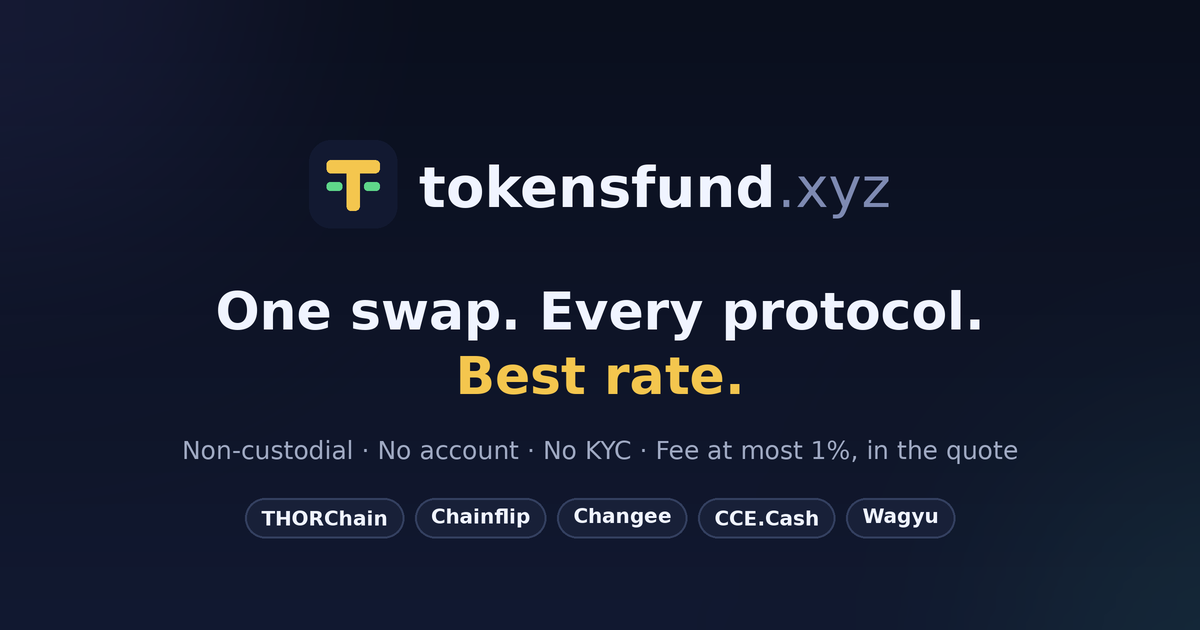
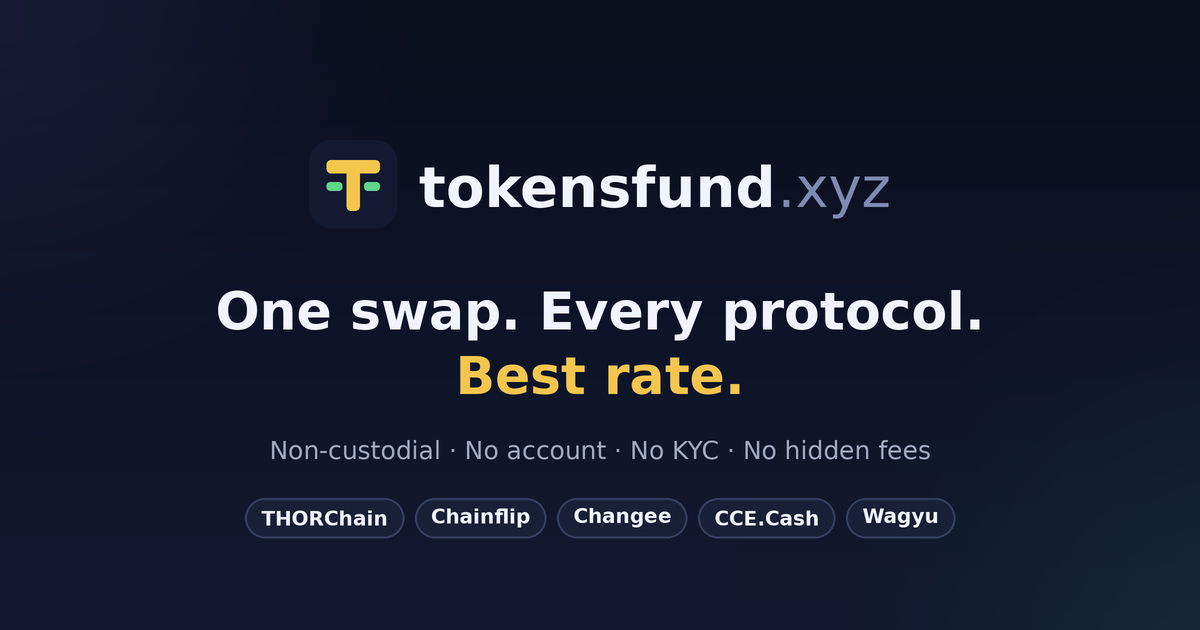
Add files via upload

Changed region(s): [[0.1542, 0.6937, 0.8633, 0.754]]

diff --git a/lib/pairs.ts b/lib/pairs.ts
@@ -8,6 +8,8 @@
 // sitemap all derive from it. Keep `faqs` genuinely useful — they carry the
 // FAQPage structured data.
 
+import { FEE_PHRASE, FEE_ANSWER } from "./fees";
+
 export interface PairFaq {
   q: string;
   a: string;
@@ -37,9 +39,9 @@ export const PAIRS: PairPage[] = [
     toLabel: "Monero",
     title: "Swap BTC to XMR — No Account, No KYC",
     description:
-      "Compare live BTC to XMR rates across THORChain, Changee, CCE.Cash and Wagyu in one place. Non-custodial, no account, no KYC for standard swaps, flat 1% already in the quote.",
+      `Compare live BTC to XMR rates across CCE.Cash, Changee and Wagyu in one place. Non-custodial, no account, no KYC for standard swaps, ${FEE_PHRASE}.`,
     intro:
-      "Bitcoin in, Monero out, wallet to wallet. We quote every route that supports the pair and send your swap to the best one — no account, no KYC for standard swaps, and our 1% fee is already inside the number you see.",
+      "Bitcoin in, Monero out, wallet to wallet. We quote every route that supports the pair and send your swap to the best one — no account, no KYC for standard swaps, and the number you see is what you receive.",
     notes: [
       "BTC→XMR rates vary more between services than almost any other pair, which is exactly why comparing routes matters here.",
       "Your XMR address is ~95 characters starting with 4 (or 8 for a subaddress) — check the first and last five characters before sending.",
@@ -56,7 +58,7 @@ export const PAIRS: PairPage[] = [
       },
       {
         q: "What fee do you charge on BTC to XMR?",
-        a: "A flat 1%, already included in every quote shown. The figure on screen is what you receive, aside from network fees charged by the blockchains themselves.",
+        a: FEE_ANSWER,
       },
       {
         q: "How long does a BTC to XMR swap take?",
@@ -76,9 +78,9 @@ export const PAIRS: PairPage[] = [
     toLabel: "Bitcoin",
     title: "Swap XMR to BTC — No Account, No KYC",
     description:
-      "Compare live XMR to BTC rates across every route that supports the pair. Non-custodial, no account, no KYC for standard swaps, flat 1% already in the quote.",
+      `Compare live XMR to BTC rates across every route that supports the pair. Non-custodial, no account, no KYC for standard swaps, ${FEE_PHRASE}.`,
     intro:
-      "Monero in, Bitcoin out, wallet to wallet. We quote every provider that serves the pair and route your swap to the best rate — no account, no KYC for standard swaps, 1% already included in the quote.",
+      "Monero in, Bitcoin out, wallet to wallet. We quote every provider that serves the pair and route your swap to the best rate — no account, no KYC for standard swaps, every fee already included in the quote.",
     notes: [
       "Monero transactions are irreversible and private by default — verify your destination Bitcoin address carefully before sending.",
       "XMR deposits usually confirm faster than Bitcoin ones, so the Bitcoin payout leg is often the longer wait.",
@@ -95,7 +97,7 @@ export const PAIRS: PairPage[] = [
       },
       {
         q: "What does the swap cost?",
-        a: "A flat 1% is included in the displayed quote, plus the blockchains' own network fees. There are no additional charges revealed later.",
+        a: FEE_ANSWER,
       },
       {
         q: "Is swapping Monero legal?",
@@ -111,9 +113,9 @@ export const PAIRS: PairPage[] = [
     toLabel: "Ethereum",
     title: "Swap BTC to ETH — No Account, No KYC",
     description:
-      "Compare live BTC to ETH rates across THORChain, Chainflip, Changee, CCE.Cash and Wagyu. Non-custodial, no account, no KYC for standard swaps, flat 1% already in the quote.",
+      `Compare live BTC to ETH rates across THORChain, Chainflip, Changee, CCE.Cash and Wagyu. Non-custodial, no account, no KYC for standard swaps, ${FEE_PHRASE}.`,
     intro:
-      "Bitcoin in, Ethereum out, wallet to wallet. This pair is supported by every route we integrate, so the comparison is at its widest — the best rate wins and our 1% is already in the number.",
+      "Bitcoin in, Ethereum out, wallet to wallet. This pair is supported by every route we integrate, so the comparison is at its widest — the best rate wins and every fee is already in the number.",
     notes: [
       "All five providers typically quote this pair, so spreads between routes are usually tighter than on privacy pairs — comparing still routinely finds 1% or more.",
       "Your ETH address is the standard 0x format. Double-check it: the same format is used by several other EVM chains, and funds sent to the wrong network are unrecoverable.",
@@ -130,7 +132,7 @@ export const PAIRS: PairPage[] = [
       },
       {
         q: "What is the fee?",
-        a: "A flat 1%, already included in the quote you see, plus network fees charged by Bitcoin and Ethereum themselves.",
+        a: FEE_ANSWER,
       },
       {
         q: "Do I need a refund address?",
@@ -146,11 +148,11 @@ export const PAIRS: PairPage[] = [
     toLabel: "Zcash",
     title: "Swap BTC to ZEC — No Account, No KYC",
     description:
-      "Swap Bitcoin for Zcash without an account or KYC. Non-custodial, wallet to wallet, flat 1% already in the quote. Live quotes from every route that supports the pair.",
+      `Swap Bitcoin for Zcash without an account or KYC. Non-custodial, wallet to wallet, ${FEE_PHRASE}. Live quotes from every route that supports the pair.`,
     intro:
       "Bitcoin in, Zcash out, wallet to wallet. Zcash is delisted from many custodial venues, so the routes that serve it are fewer than for major pairs — we show every one that genuinely does, and send your swap to the best rate.",
     notes: [
-      "ZEC now routes through THORChain and Changee. THORChain is a decentralised protocol, so on that route there is no company holding your funds mid-swap.",
+      "ZEC routes through THORChain, Changee and Wagyu. THORChain is a decentralised protocol, so on that route no company holds your funds mid-swap, and Wagyu pays to shielded addresses by default.",
       "Zcash addresses come in transparent (t1...), shielded (zs...) and unified (u1...) forms. Swap routes usually deliver to transparent addresses.",
       "If privacy is your reason for holding ZEC, move the funds into your own shielded address after they arrive — that final hop is where the privacy actually begins.",
     ],
@@ -165,11 +167,11 @@ export const PAIRS: PairPage[] = [
       },
       {
         q: "Which routes support ZEC?",
-        a: "THORChain and Changee. THORChain's native Zcash support means you can swap BTC for real ZEC on a decentralised protocol, with no wrapped tokens and no custodian. The terminal quotes both and highlights whichever gives you more ZEC.",
+        a: "THORChain, Changee and Wagyu. THORChain's native Zcash support means you can swap BTC for real ZEC on a decentralised protocol, with no wrapped tokens and no custodian, and Wagyu pays ZEC to shielded addresses by default. The terminal quotes every route and highlights whichever gives you more ZEC.",
       },
       {
         q: "What does it cost?",
-        a: "A flat 1%, already included in the quote you see, plus the network fees charged by Bitcoin and Zcash themselves.",
+        a: FEE_ANSWER,
       },
     ],
   },
@@ -181,9 +183,9 @@ export const PAIRS: PairPage[] = [
     toLabel: "Bitcoin",
     title: "Swap ETH to BTC — No Account, No KYC",
     description:
-      "Compare live ETH to BTC rates across every integrated route. Non-custodial, no account, no KYC for standard swaps, flat 1% already in the quote.",
+      `Compare live ETH to BTC rates across every integrated route. Non-custodial, no account, no KYC for standard swaps, ${FEE_PHRASE}.`,
     intro:
-      "Ethereum in, Bitcoin out, wallet to wallet. This is one of the most widely supported pairs we route, so the comparison runs deep — the best rate wins and our 1% is already inside the number you see.",
+      "Ethereum in, Bitcoin out, wallet to wallet. This is one of the most widely supported pairs we route, so the comparison runs deep — the best rate wins and every fee is already inside the number you see.",
     notes: [
       "Ethereum network fees vary a lot by congestion; check gas before sending, since it is charged on top of the quote.",
       "The Bitcoin payout leg confirms on Bitcoin's schedule, so allow time even after your Ethereum deposit lands.",
@@ -199,8 +201,8 @@ export const PAIRS: PairPage[] = [
         a: "It varies with liquidity and trade size, which is the reason for the comparison — the terminal quotes every eligible route at the moment you ask.",
       },
       {
-        q: "Are there fees beyond the 1%?",
-        a: "Only the blockchains' own network fees. Ethereum gas is paid by you when you send the deposit, and the Bitcoin payout carries a standard mining fee.",
+        q: "Are there any other fees?",
+        a: "Each provider's own fee is already reflected in the quote. Beyond that, only the blockchains' network fees: Ethereum gas is paid by you when you send the deposit, and the Bitcoin payout carries a standard mining fee.",
       },
       {
         q: "What if the route cannot fill my swap?",
@@ -216,7 +218,7 @@ export const PAIRS: PairPage[] = [
     toLabel: "Bitcoin",
     title: "Swap USDT to BTC — No Account, No KYC",
     description:
-      "Swap Tether for Bitcoin without an account or KYC. Live quotes across every supporting route, non-custodial, flat 1% already in the quote.",
+      `Swap Tether for Bitcoin without an account or KYC. Live quotes across every supporting route, non-custodial, ${FEE_PHRASE}.`,
     intro:
       "Stablecoins in, Bitcoin out, wallet to wallet. A useful route if you hold dollar-denominated tokens and want an asset with no issuer, no freeze function and no closure date attached.",
     notes: [
@@ -251,7 +253,7 @@ export const PAIRS: PairPage[] = [
     toLabel: "Litecoin",
     title: "Swap BTC to LTC — No Account, No KYC",
     description:
-      "Compare live BTC to LTC rates across every integrated route. Non-custodial, no account, no KYC for standard swaps, flat 1% already in the quote.",
+      `Compare live BTC to LTC rates across every integrated route. Non-custodial, no account, no KYC for standard swaps, ${FEE_PHRASE}.`,
     intro:
       "Bitcoin in, Litecoin out, wallet to wallet. Both chains settle predictably and the pair is widely supported, so this is one of the more straightforward swaps we route.",
     notes: [
@@ -270,7 +272,7 @@ export const PAIRS: PairPage[] = [
       },
       {
         q: "What is the fee?",
-        a: "A flat 1%, already included in the quote shown, plus each blockchain's own network fee.",
+        a: FEE_ANSWER,
       },
       {
         q: "Do you support MWEB addresses?",

diff --git a/lib/fees.ts b/lib/fees.ts
@@ -1,44 +1,45 @@
 // TokensFund's own fee — every piece of fee wording on the live site comes
-// from this file, so the launch promotion can be ended or extended here.
+// from this file.
 //
-// TO END THE PROMOTION:
-//   1. set FEE_PROMO_ACTIVE to false (the wording below switches back to 1%),
+// TokensFund currently charges NO fee of its own (FEE_FREE = true).
+//
+// TO CHARGE A FEE AGAIN:
+//   1. set FEE_FREE to false (the wording below switches back to "at most 1%"),
 //   2. restore the fee settings: in Vercel set THOR_AFFILIATE_BPS=100,
 //      CHAINFLIP_COMMISSION_BPS=100 and WAGYU_FEE_PERCENT=1, then set the
 //      partner fee back to 1% in the Changee and Wagyu dashboards, and redeploy.
-// TO EXTEND IT: change FEE_PROMO_END.
 
-export const FEE_PROMO_ACTIVE = false;
-export const FEE_PROMO_END = "January 31, 2027";
+export const FEE_FREE = true;
+
+// Kept under this name because the homepage imports it.
+export const FEE_PROMO_ACTIVE = FEE_FREE;
 
 // Short label for badges and trust lines.
-export const FEE_SHORT = FEE_PROMO_ACTIVE ? "No TokensFund fee" : "Fee at most 1%, in the quote";
+export const FEE_SHORT = FEE_FREE ? "No TokensFund fee" : "Fee at most 1%, in the quote";
 
-// Headline promo line, with the date.
-export const FEE_PROMO_LINE = `No TokensFund fee until ${FEE_PROMO_END}`;
+// Homepage badge.
+export const FEE_PROMO_LINE = "No TokensFund fee — you get each provider's own rate";
 
 // Lower-case phrase for the end of descriptions:
 // "Non-custodial, no account, no KYC for standard swaps, <FEE_PHRASE>."
-export const FEE_PHRASE = FEE_PROMO_ACTIVE
-  ? `no TokensFund fee until ${FEE_PROMO_END}`
-  : "fee of at most 1% already in the quote";
+export const FEE_PHRASE = FEE_FREE ? "no TokensFund fee" : "fee of at most 1% already in the quote";
 
 // Homepage "how it works" step.
-export const FEE_STEP = FEE_PROMO_ACTIVE
-  ? "Five routes quoted at once. The best rate wins — and during our launch period there's no TokensFund fee at all."
+export const FEE_STEP = FEE_FREE
+  ? "Five routes quoted at once. The best rate wins — and TokensFund adds no fee on top."
   : "Five routes quoted at once. The best rate wins, with our fee already included in the number you see.";
 
 // "What does it cost?" answers on pair pages.
-export const FEE_ANSWER = FEE_PROMO_ACTIVE
-  ? `Nothing from TokensFund until ${FEE_PROMO_END} — during our launch period we charge no fee, so every quote is the provider's own rate. Each provider's own fees and the blockchains' network fees still apply, and they're already reflected in the quote you see.`
+export const FEE_ANSWER = FEE_FREE
+  ? "Nothing from TokensFund — we charge no fee, so every quote is the provider's own rate. Each provider's own fees and the blockchains' network fees still apply, and they're already reflected in the quote you see."
   : "Our fee is at most 1%, already included in the quote you see. Each provider's own fees and the blockchains' network fees are reflected in the quote as well.";
 
 // FAQ: "How does TokensFund make money? Do you charge a fee?"
-export const FEE_FAQ_ANSWER = FEE_PROMO_ACTIVE
-  ? `During our launch period, it doesn't. Until ${FEE_PROMO_END}, TokensFund charges no fee of its own, so every quote you see is the provider's own rate. Providers' fees and network fees still apply and are already reflected in the quote. If we introduce a fee later, it will always be shown inside the quote before you confirm — never added at the end.`
+export const FEE_FAQ_ANSWER = FEE_FREE
+  ? "Right now, it doesn't. TokensFund charges no fee of its own, so every quote you see is the provider's own rate. Providers' fees and network fees still apply and are already reflected in the quote. If we ever introduce a fee, it will be shown inside the quote before you confirm — never added at the end."
   : "TokensFund charges a fee of at most 1% per swap, and it's already included in the rate you see before you confirm. There's no separate charge added at the end — the quoted output is what you receive, aside from network fees.";
 
 // Terms of service fee clause.
-export const FEE_TERMS = FEE_PROMO_ACTIVE
-  ? `During our launch promotion, until ${FEE_PROMO_END}, TokensFund charges no fee of its own. Providers' fees and network fees still apply and are reflected in the quote shown to you. If we introduce a fee, it will be shown in the quote before you confirm a swap.`
+export const FEE_TERMS = FEE_FREE
+  ? "TokensFund currently charges no fee of its own. Providers' fees and network fees still apply and are reflected in the quote shown to you. If we introduce a fee, it will be shown in the quote before you confirm a swap."
   : "TokensFund charges a fee of at most 1%, which is already reflected in the quote shown to you.";

diff --git a/app/faq/page.tsx b/app/faq/page.tsx
@@ -1,9 +1,10 @@
 import Header from "@/components/Header";
+import { FEE_FAQ_ANSWER } from "@/lib/fees";
 
 export const metadata = {
   title: "Frequently Asked Questions",
   description:
-    "Answers about swapping crypto on TokensFund without KYC: how non-custodial swaps work, supported assets and protocols, the 1% fee, safety, and privacy.",
+    "Answers about swapping crypto on TokensFund without KYC: how non-custodial swaps work, supported assets and protocols, fees, safety, and privacy.",
   keywords: [
     "tokensfund faq",
     "no KYC crypto swap faq",
@@ -17,7 +18,7 @@ export const metadata = {
     url: "/faq",
     title: "TokensFund FAQ — No-KYC Crypto Swaps",
     description:
-      "How non-custodial swaps work, which protocols and assets are supported, the 1% fee, safety, and privacy — answered.",
+      "How non-custodial swaps work, which protocols and assets are supported, fees, safety, and privacy — answered.",
     images: [
       {
         url: "https://tokensfund.xyz/og-image.png",
@@ -31,7 +32,7 @@ export const metadata = {
     card: "summary_large_image",
     title: "TokensFund FAQ — No-KYC Crypto Swaps",
     description:
-      "How non-custodial swaps work, which protocols and assets are supported, the 1% fee, safety, and privacy — answered.",
+      "How non-custodial swaps work, which protocols and assets are supported, fees, safety, and privacy — answered.",
     images: ["https://tokensfund.xyz/og-image.png"],
   },
 };
@@ -102,12 +103,12 @@ const faqs = [
   {
     section: "Fees & rates",
     q: "How does TokensFund make money? Do you charge a fee?",
-    a: "TokensFund charges a flat 1% fee per swap, and it's already included in the rate you see before you confirm. There's no separate charge added at the end — the quoted output is what lands in your wallet. The quote reflects everything: the routing protocol's costs and our 1% fee.",
+    a: FEE_FAQ_ANSWER,
   },
   {
     section: "Fees & rates",
     q: "Will I get exactly the rate I'm quoted?",
-    a: "Quotes are live estimates, not locked guarantees. The amount you actually receive can move slightly with network conditions and the routing protocol's liquidity between the moment you get the quote and the moment the swap executes. The 1% TokensFund fee is already built into the quote, so review the figure on screen before sending.",
+    a: "Quotes are live estimates, not locked guarantees. The amount you actually receive can move slightly with network conditions and the routing protocol's liquidity between the moment you get the quote and the moment the swap executes. Every fee is already built into the quote, so review the figure on screen before sending.",
   },
   {
     section: "Fees & rates",

diff --git a/app/blog/swap-btc-to-xmr-zec-without-kyc-2026/page.tsx b/app/blog/swap-btc-to-xmr-zec-without-kyc-2026/page.tsx
@@ -72,10 +72,10 @@ export default function Post() {
         <h2>The swap, step by step</h2>
         <ul>
           <li><strong>1. Open the terminal.</strong> The <Link href="/">TokensFund homepage</Link> defaults to BTC → XMR already. For Zcash, tap the receive-side token and pick ZEC.</li>
-          <li><strong>2. Enter your amount</strong> — the estimated output updates live, with our flat 1% already inside the number. What you see is what arrives, minus only network fees.</li>
+          <li><strong>2. Enter your amount</strong> — the estimated output updates live, with every fee already inside the number. What you see is what arrives, minus only network fees.</li>
           <li><strong>3. Paste your destination address.</strong> The field checks the format and shows a green tick when it looks right — advisory, not a guarantee, so eyeball the first and last characters yourself. Always.</li>
           <li><strong>4. Add a refund address (your BTC address).</strong> Optional for most routes but genuinely recommended: if a swap can&apos;t fill, funds return there automatically instead of needing support intervention.</li>
-          <li><strong>5. Compare routes.</strong> One click quotes every provider that serves your pair, best rate first. XMR routes through up to four of our five providers — THORChain, CCE.Cash, Changee and Wagyu — and ZEC through THORChain, Changee and Wagyu. Wagyu pays ZEC to shielded addresses by default.</li>
+          <li><strong>5. Compare routes.</strong> One click quotes every provider that serves your pair, best rate first. XMR routes through up to three of our five providers — CCE.Cash, Changee and Wagyu — and ZEC through THORChain, Changee and Wagyu. Wagyu pays ZEC to shielded addresses by default.</li>
           <li><strong>6. Send the deposit.</strong> You get a one-time BTC deposit address and an exact amount. Send precisely that amount, once. Bitcoin confirmations take time — plan for up to an hour on a busy day — and the tracker moves through Deposit → Detected → Processing → Done automatically.</li>
           <li><strong>7. Funds arrive at your address.</strong> XMR typically lands within minutes of the BTC leg confirming. Done — no account was created, nothing to log out of, nothing holding a balance for you.</li>
         </ul>

diff --git a/app/blog/buy-privacy-coins-without-kyc-2026/page.tsx b/app/blog/buy-privacy-coins-without-kyc-2026/page.tsx
@@ -104,9 +104,9 @@ export default function Post() {
         <p>
           TokensFund is a non-custodial aggregator — it never holds your funds. It finds the best
           available route for your pair, and you swap directly wallet-to-wallet. For Monero, the live
-          route is <strong>Changee</strong>, a non-custodial instant-swap service with XMR support.
-          (THORChain&apos;s native Monero support is in progress but not yet live; Chainflip and NEAR
-          Intents don&apos;t support XMR.)
+          routes are <strong>CCE.Cash</strong>, <strong>Changee</strong> and <strong>Wagyu</strong>.
+          (THORChain has announced native Monero support, but its pool isn&apos;t open yet; Chainflip
+          doesn&apos;t support XMR.)
         </p>
         <ol>
           <li>Go to <Link href="/">tokensfund.xyz</Link></li>
@@ -157,9 +157,10 @@ export default function Post() {
 
         <h2>Fees</h2>
         <p>
-          TokensFund charges a flat <strong>1%</strong>, already built into the quote you see — no
-          separate withdrawal fee, and no minimum or maximum swap size. You compare the final receive
-          amount across routes and pick the best one, so what you see is what you get.
+          Any TokensFund fee is always built into the quote you see — never added at the end, and
+          there&apos;s no separate withdrawal fee. Minimum amounts depend on the route and the pair.
+          You compare the final receive amount across routes and pick the best one, so what you see
+          is what you get.
         </p>
 
         <h2>A note on risk</h2>

diff --git a/app/terms/page.tsx b/app/terms/page.tsx
@@ -1,4 +1,5 @@
 import Header from "@/components/Header";
+import { FEE_TERMS } from "@/lib/fees";
 
 export const metadata = {
   title: "Terms of Service",
@@ -27,7 +28,7 @@ export default function Terms() {
 
       <article className="blog-post">
         <h1>Terms of Service</h1>
-        <p style={{ color: "#8a93a8", fontSize: "14px" }}>Last updated: October 22, 2026</p>
+        <p style={{ color: "#8a93a8", fontSize: "14px" }}>Last updated: November 10, 2026</p>
 
         <p>
           These Terms of Service (&quot;Terms&quot;) govern your access to and use of tokensfund.xyz
@@ -78,7 +79,7 @@ export default function Terms() {
 
         <h2>5. Fees and quotes</h2>
         <p>
-          TokensFund charges a flat 1% fee, which is already reflected in the quote shown to you.
+          {FEE_TERMS}
           Network (gas) fees and any spread charged by the underlying protocol are separate and
           outside our control. All quotes are estimates based on live conditions and are not
           guaranteed until a swap is executed; the amount you ultimately receive may differ due to

diff --git a/app/blog/fake-wallet-apps-self-custody-software-risk-2026/page.tsx b/app/blog/fake-wallet-apps-self-custody-software-risk-2026/page.tsx
@@ -120,8 +120,7 @@ export default function Post() {
         <p>
           Which is also why we build the way we do. TokensFund never holds your funds — swaps route
           from your wallet through THORChain, Chainflip, Changee, CCE.Cash or Wagyu to your
-          own destination address, no account, no KYC for standard swaps, flat 1% shown in the
-          quote. That design removes the custodian from the equation. It cannot verify that the
+          own destination address, no account, no KYC for standard swaps, no hidden fees in the quote. That design removes the custodian from the equation. It cannot verify that the
           wallet you&apos;re swapping into is genuine, and it can&apos;t undo a payment sent to an
           address that malware rewrote. Non-custodial infrastructure and careful software habits
           are two halves of the same protection; neither substitutes for the other. Our{" "}

diff --git a/app/blog/bitmex-shutdown-orderly-exit-custody-2026/page.tsx b/app/blog/bitmex-shutdown-orderly-exit-custody-2026/page.tsx
@@ -136,7 +136,7 @@ export default function Post() {
           piece</Link> ended on: once withdrawn, how do you manage a portfolio without depositing
           onto the <em>next</em> venue that will someday publish its own closure notice? That&apos;s
           the gap non-custodial swaps close. TokensFund compares THORChain, Chainflip, Changee, CCE.Cash and Wagyu and routes each swap to the best rate, wallet to wallet —
-          no account, no KYC for standard swaps, flat 1% in the quote, automatic refund to your own
+          no account, no KYC for standard swaps, no hidden fees in the quote, automatic refund to your own
           address if a swap can&apos;t fill. Your BTC, ETH, stables and privacy assets rotate
           without ever sitting on a balance sheet with a closure date. Our{" "}
           <Link href="/blog/move-crypto-off-exchange-without-kyc-2026">self-custody guide</Link>{" "}

diff --git a/app/blog/bitmart-bitmex-exchange-winddown-wave-2026/page.tsx b/app/blog/bitmart-bitmex-exchange-winddown-wave-2026/page.tsx
@@ -144,7 +144,7 @@ export default function Post() {
           <em>withdrawn to your own wallet — how do you keep managing a portfolio without
           depositing onto the next venue that will someday publish one of these notices?</em>{" "}
           That&apos;s the gap TokensFund closes: swaps compared across THORChain, Chainflip, Changee, CCE.Cash and Wagyu, executed wallet to wallet — no account, no KYC for
-          standard swaps, flat 1% in the quote, automatic refund to your own address if a swap
+          standard swaps, no hidden fees in the quote, automatic refund to your own address if a swap
           can&apos;t fill. No balance sitting anywhere that can schedule a closure, gate your
           exit, or ask for papers to release what&apos;s yours. Start with the{" "}
           <Link href="/blog/move-crypto-off-exchange-without-kyc-2026">self-custody guide</Link>{" "}

diff --git a/app/blog/bitcoin-breaks-307-day-range-2026/page.tsx b/app/blog/bitcoin-breaks-307-day-range-2026/page.tsx
@@ -132,8 +132,7 @@ export default function Post() {
           else, move stablecoins around. The practical note we keep making applies double when
           markets are fast: <em>you don&apos;t have to go back to an exchange to do it</em>.
           TokensFund compares THORChain, Chainflip, Changee, CCE.Cash and Wagyu on every swap and routes
-          to the best rate, wallet to wallet — no account, no KYC for standard swaps, flat 1%
-          already inside the quote, refunds to your own address if a route can&apos;t fill.
+          to the best rate, wallet to wallet — no account, no KYC for standard swaps, no hidden fees in the quote, refunds to your own address if a route can&apos;t fill.
         </p>
         <p>
           And in a week when everything is moving, the boring advice earns its keep: verify

diff --git a/app/blog/stablecoin-flippening-usdc-usdt-2026/page.tsx b/app/blog/stablecoin-flippening-usdc-usdt-2026/page.tsx
@@ -121,8 +121,7 @@ export default function Post() {
           Whichever way you rotate — USDT to USDC, stables into BTC or ETH, or back — you don&apos;t
           need a licensed venue or an account to do it. TokensFund swaps between them
           non-custodially: it compares THORChain, Chainflip, Changee, CCE.Cash and Wagyu and
-          routes to the best rate, wallet to wallet, no KYC for standard swaps, flat 1% shown in the
-          quote, automatic refund to your own address if a swap can&apos;t fill. The venue chokepoint
+          routes to the best rate, wallet to wallet, no KYC for standard swaps, no hidden fees in the quote, automatic refund to your own address if a swap can&apos;t fill. The venue chokepoint
           is exactly the thing a wallet-to-wallet swap doesn&apos;t have.
         </p>
 

diff --git a/app/blog/crypto-ipo-carnage-casino-vs-chips-2026/page.tsx b/app/blog/crypto-ipo-carnage-casino-vs-chips-2026/page.tsx
@@ -129,8 +129,7 @@ export default function Post() {
           (our <Link href="/blog/move-crypto-off-exchange-without-kyc-2026">step-by-step
           guide</Link> covers it), and when you want to move between assets, swap wallet-to-wallet:
           TokensFund compares THORChain, Chainflip, Changee, CCE.Cash and Wagyu and routes
-          your swap to the best rate — no account, no KYC for standard swaps, flat 1% shown in the
-          quote, automatic refund to your own address if a swap can&apos;t fill. No shares, no
+          your swap to the best rate — no account, no KYC for standard swaps, no hidden fees in the quote, automatic refund to your own address if a swap can&apos;t fill. No shares, no
           balances, no counterparty holding your position. Just the chips, in your hand.
         </p>
 
